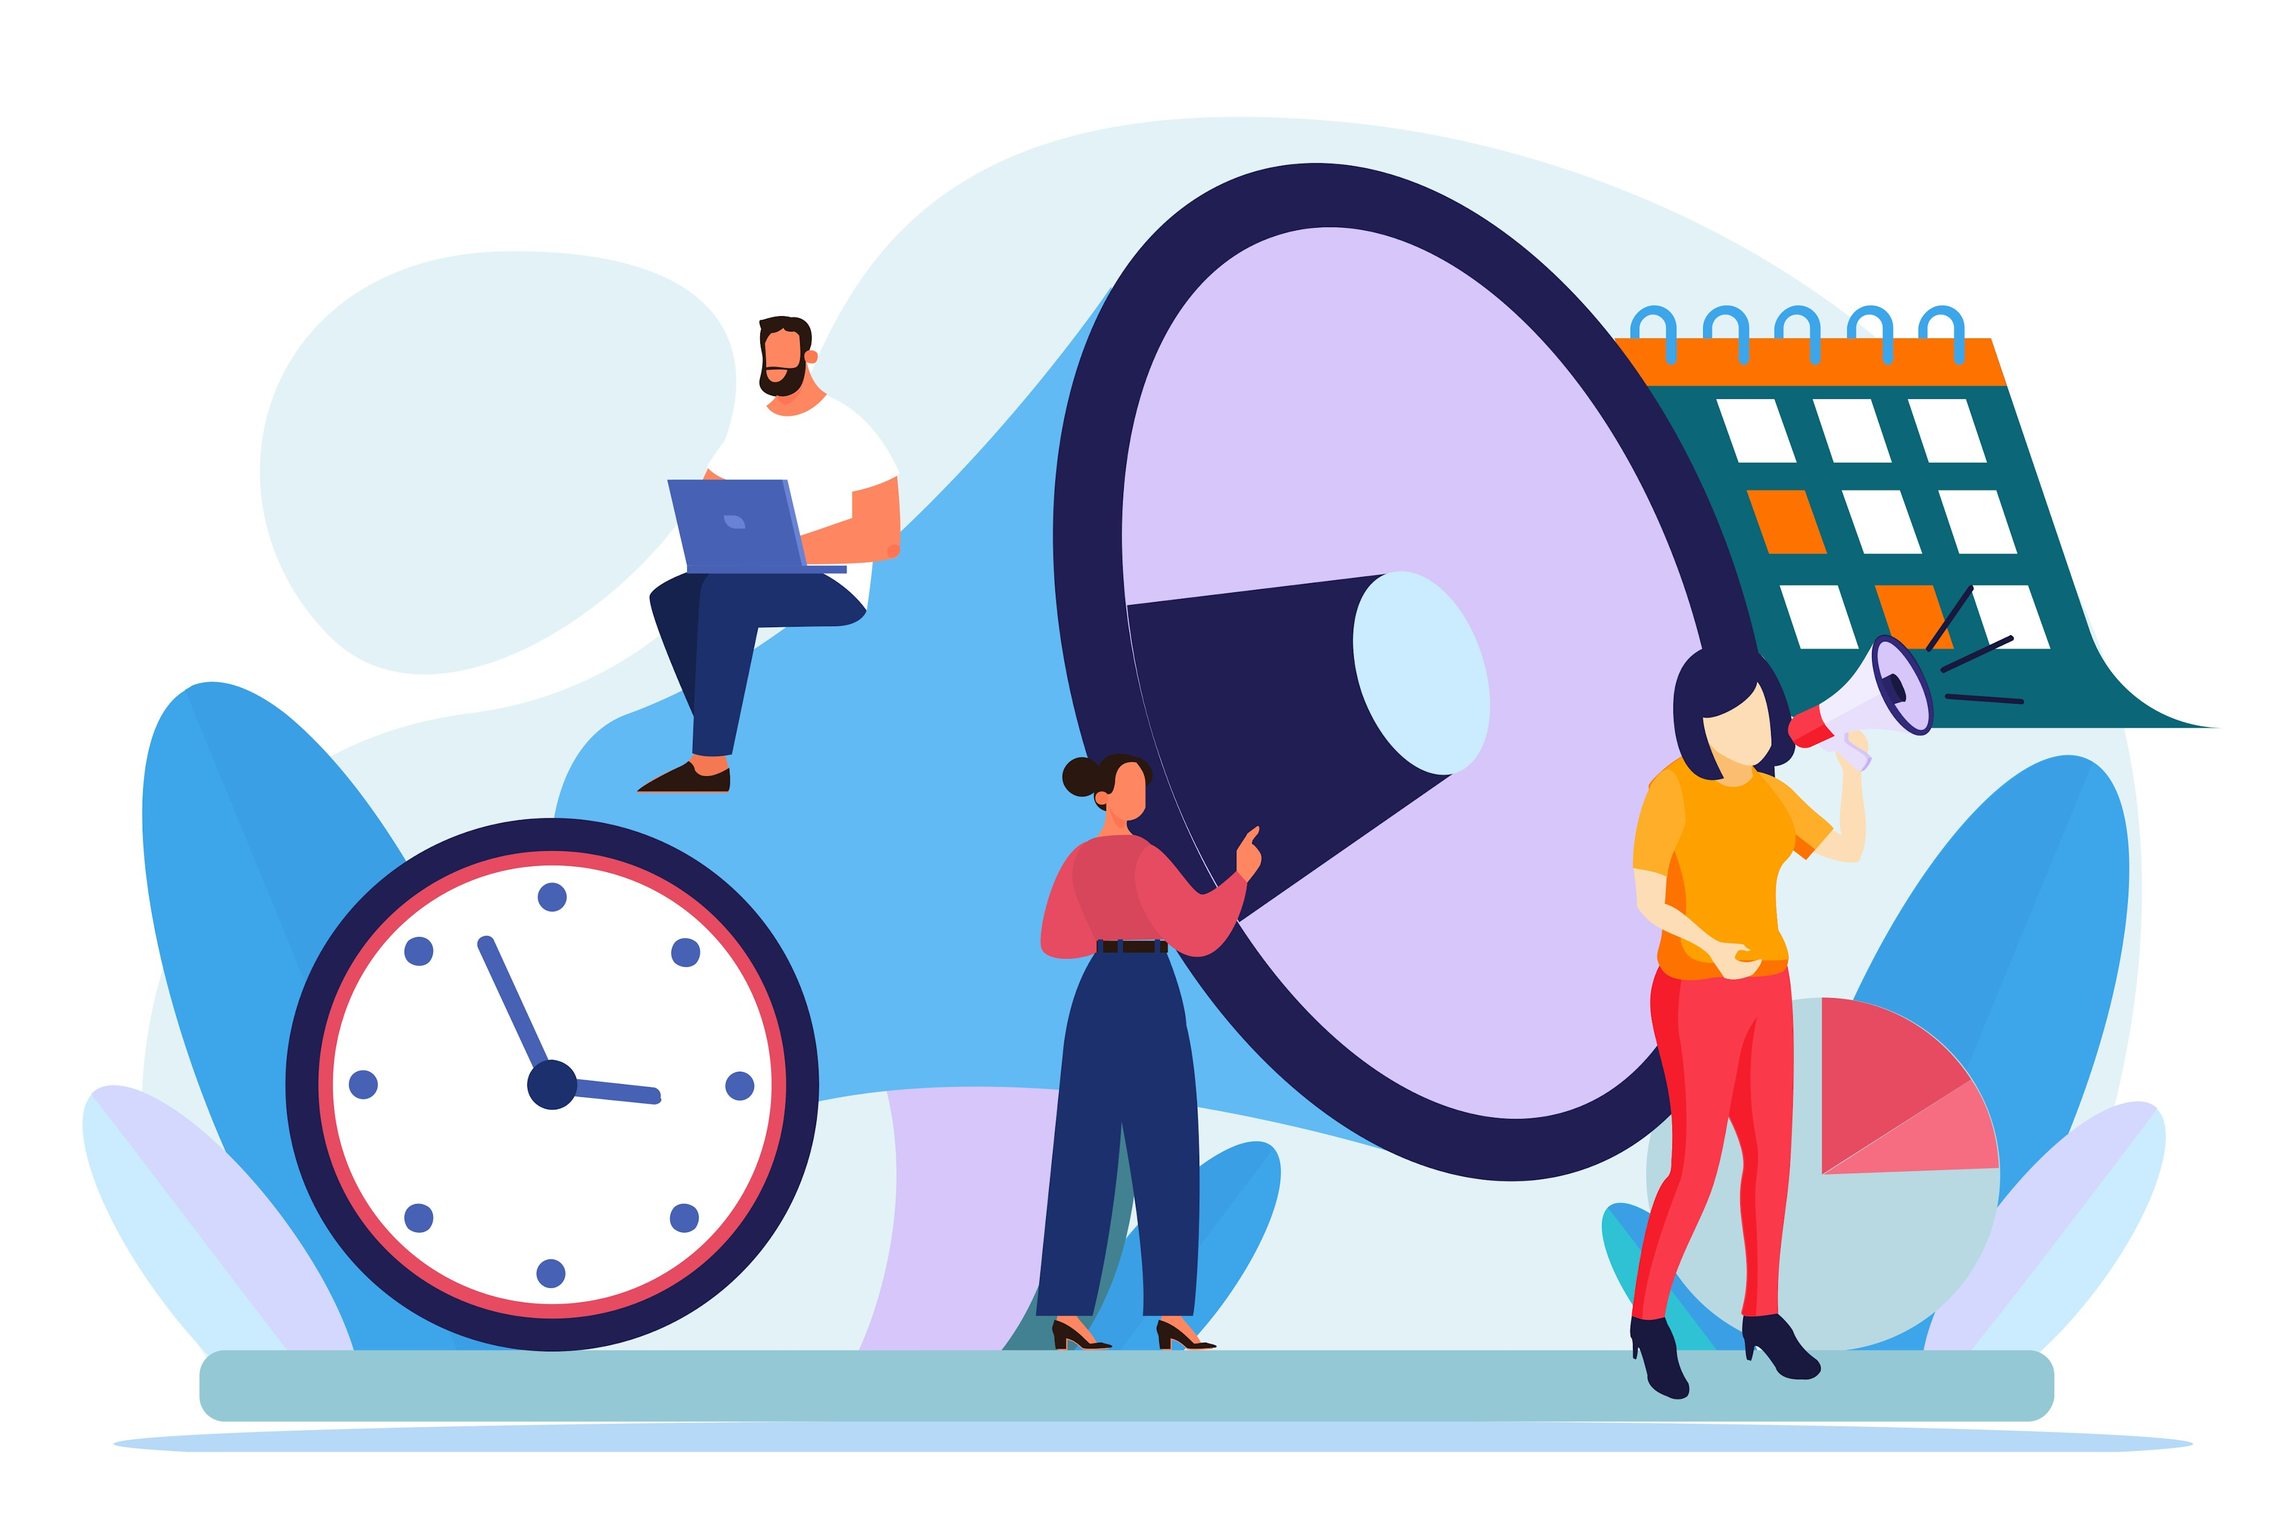
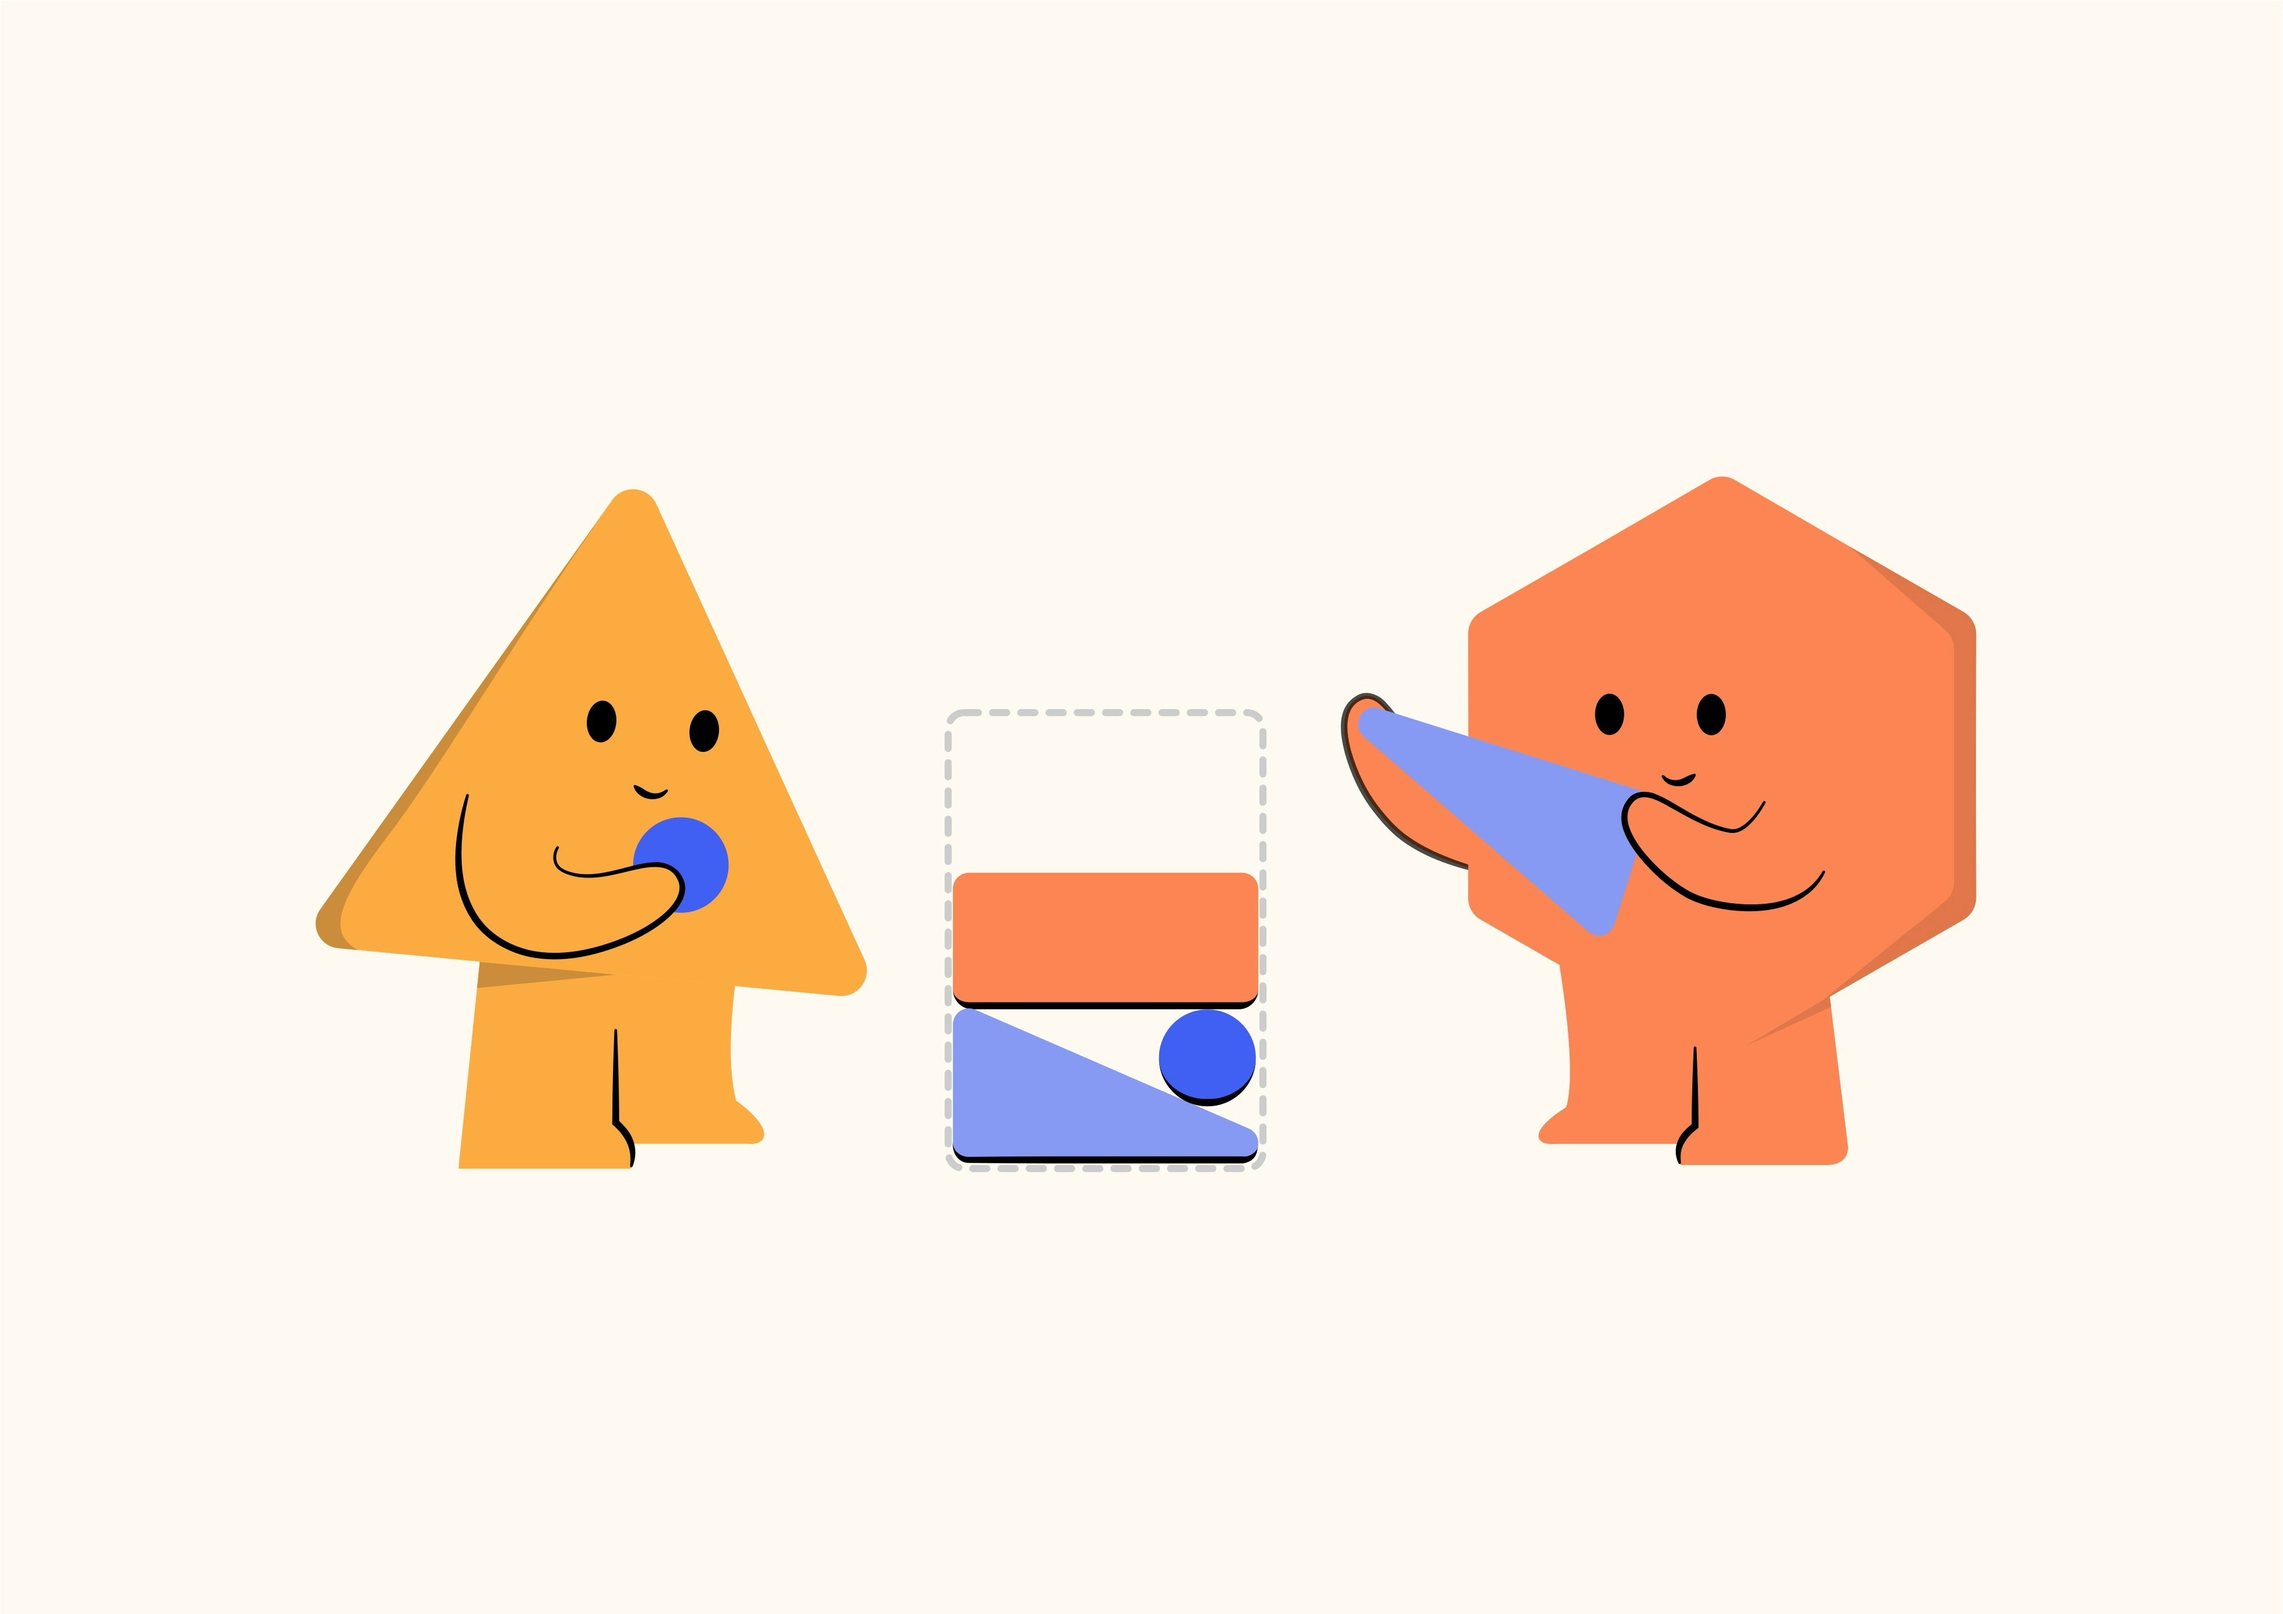
Added new text on home page and added a div class text and image on acting page

diff --git a/acting.html b/acting.html
@@ -65,6 +65,23 @@ In Theatre Sports Club, we dont memories scripts, instead we play fun games to l
 </div>
 <p>Photo by Catherine Breslin on Unsplash </p>
 
+<div class="acting-image-two">
+    <img src="images/acting-5.jpg.jpg" alt="Image Of Shapes Building Together">
+</div>
+<p>Illustration by Aditya Sahu on Unsplash</p>
+
+<p><b>Teamwork</b> is about wokring with each other,
+<br>
+listening to one another, sharing the stage
+<br> 
+and developing fun stories together. In the game
+<br>
+Change, actor have to create a new line that is 
+<br>
+different from the last when, when the judge
+<br>
+says "Change!"</p>
+
 </body>
 
 

diff --git a/index.html b/index.html
@@ -34,7 +34,7 @@
     <div class="home-text">
     <p>Welcome to the Hamilton Girls' High School Theatre Sports Club website! 
         <br>
-        This club is all about being creative, using out imagination and having fun. 
+        This club is all about being creative, using our imagination and having fun. 
         <br>
         If you enjoy acting or want to get out of your comfort zone,
         then come along!</p>
